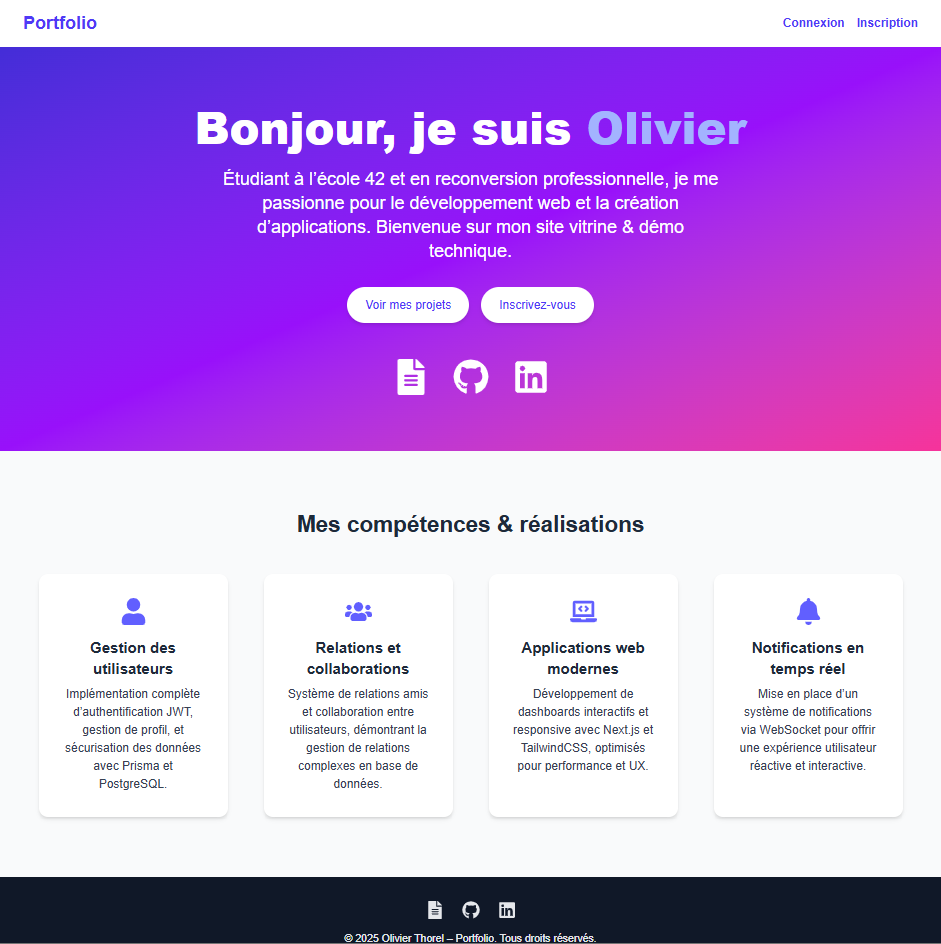
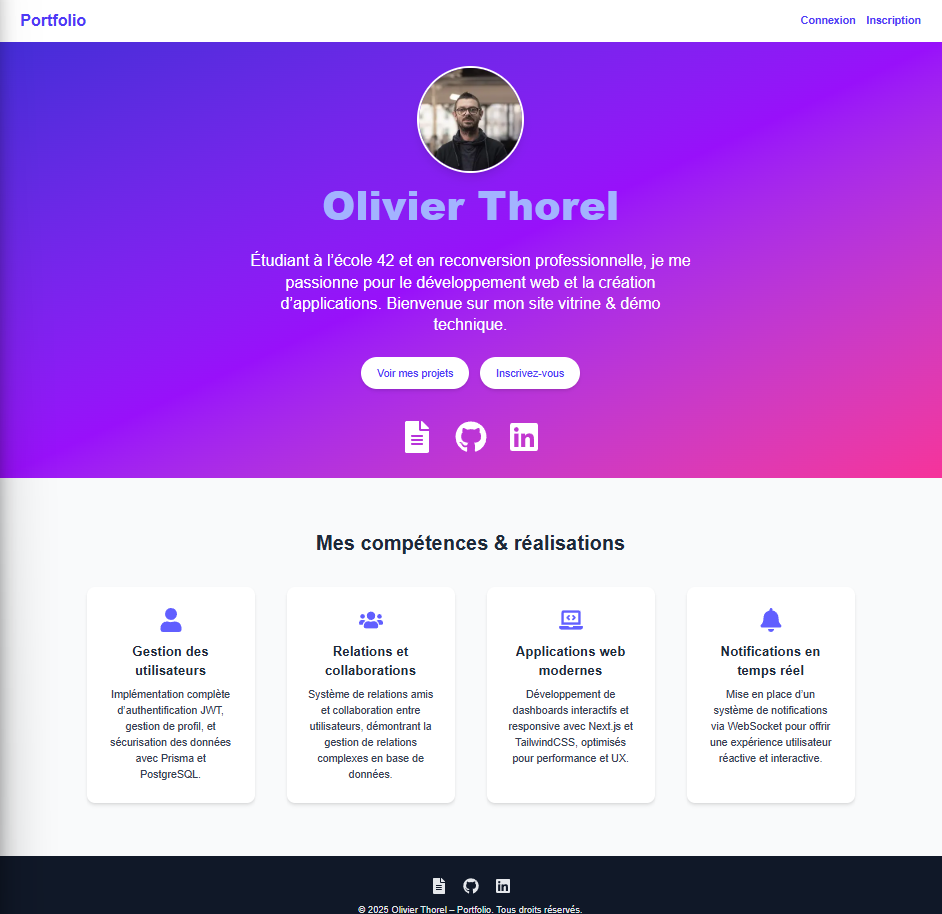
Add proxy https nginx

diff --git a/frontend/src/components/Hero.tsx b/frontend/src/components/Hero.tsx
@@ -1,6 +1,7 @@
 "use client";
 
 import Link from "next/link";
+import Image from "next/image";
 import { useAuth } from "@/context/AuthContext";
 import { FaGithub, FaLinkedin, FaFileAlt } from "react-icons/fa";
 
@@ -12,10 +13,10 @@ export default function Hero() {
       {user ? (
         <>
           <h2 className="text-5xl md:text-6xl font-extrabold mb-6">
-            Bonjour <span className="text-indigo-300">{user.login}</span>
+            Bienvenue <span className="text-indigo-300">{user.login}</span>
           </h2>
           <p className="text-xl md:text-2xl mb-8 max-w-2xl">
-            Bienvenue dans la démo technique : testez la gestion de profil, les projets et les relations d’amis.
+            Explorez vos projets, votre profil et vos amis dans cette démo technique.
           </p>
           <div className="flex gap-4 flex-wrap justify-center mb-6">
             <Link
@@ -42,15 +43,26 @@ export default function Hero() {
         </>
       ) : (
         <>
-          <h2 className="text-5xl md:text-6xl font-extrabold mb-6">
-            Bonjour, je suis <span className="text-indigo-300">Olivier</span>
-          </h2>
+          <div className="flex flex-col items-center mb-6">
+            <Image
+              src="/images/profile.jpeg"
+              alt="Photo de profil d’Olivier"
+              width={160}
+              height={160}
+              className="rounded-full shadow-lg border-4 border-white object-cover mb-4 hover:scale-105 transition-transform duration-300"
+            />
+            <h2 className="text-5xl md:text-6xl font-extrabold mb-4">
+              <span className="text-indigo-300">Olivier Thorel</span>
+            </h2>
+          </div>
+
           <p className="text-xl md:text-2xl mb-8 max-w-2xl">
             Étudiant à l’école 42 et en reconversion professionnelle, 
             je me passionne pour le développement web et la création 
             d’applications.  
             Bienvenue sur mon site vitrine & démo technique.
           </p>
+
           <div className="flex gap-4 flex-wrap justify-center mb-6">
             <Link
               href="/projects"
